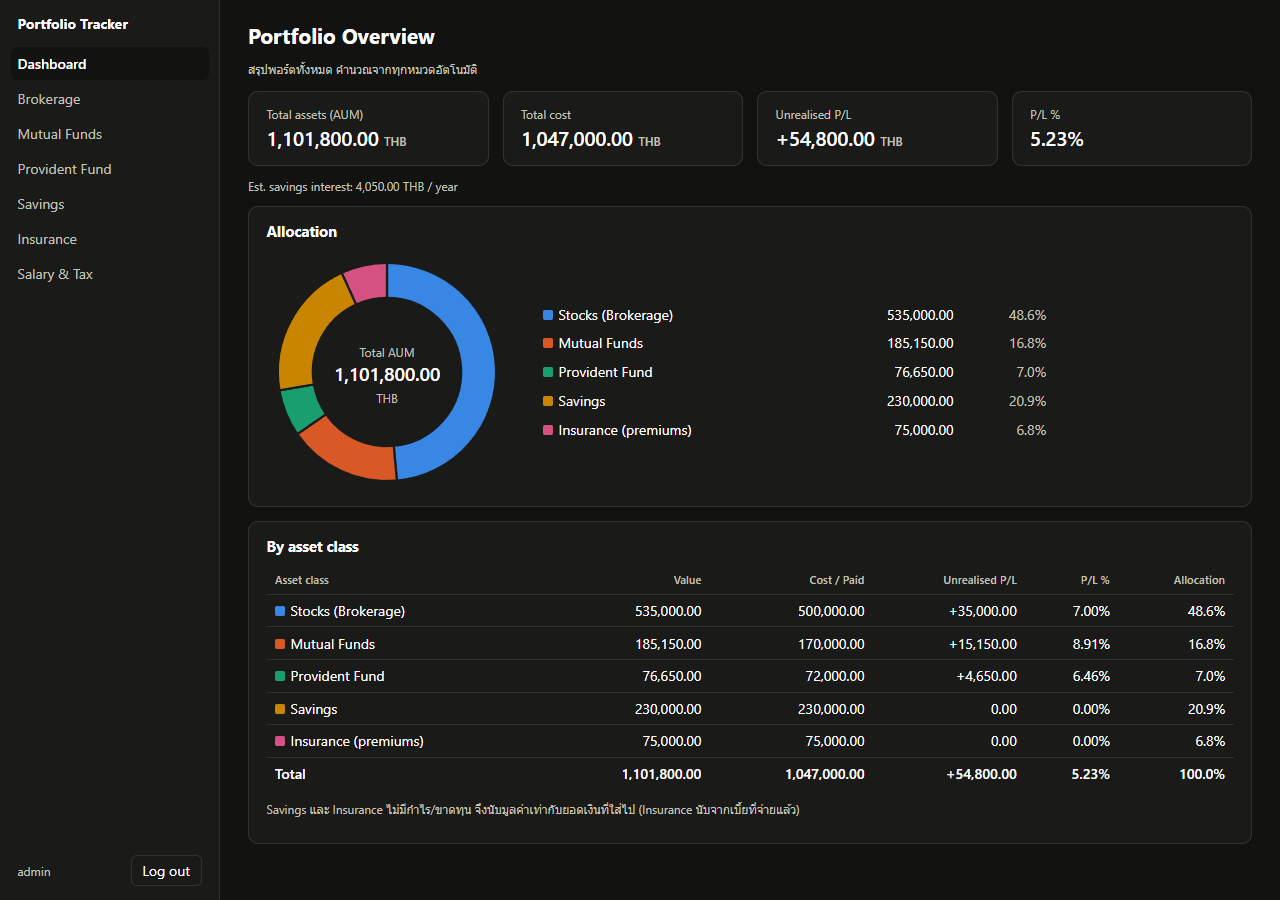
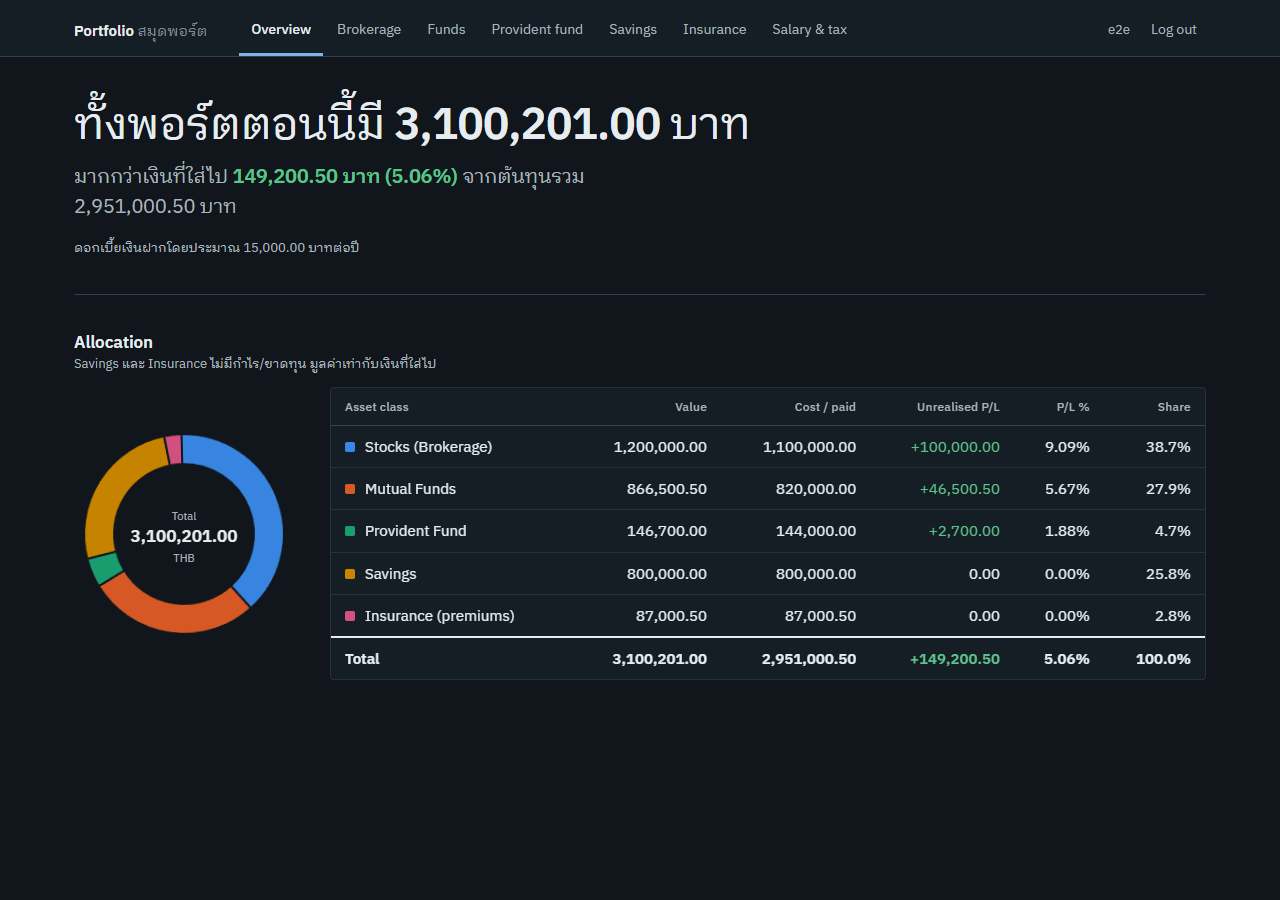
docs: drop the doc 01 review checklist, refresh screenshots from made-up data
docs/01 loses its "Review checklist / Open questions" section and the
line pointing to it. Its app shell and dashboard sections described the
old sidebar and KPI cards and cited spreadsheet cell ranges; they now
describe the top menu, the hero sentence and the allocation donut, and
cite the API fields instead. Leftover v_* view mentions are gone.

docs/images is regenerated from the e2e seed by a Playwright spec that
only runs with UPDATE_SCREENSHOTS=1 (make docs-screenshots), so the
screenshots match the current UI and never show real data.

docs/04: the Set-Cookie message in the session diagram broke mermaid,
which reads ; as the end of a statement. It is now quoted with the
semicolons written as #59;, and renders as
"Set-Cookie pt_session=token; HttpOnly; SameSite=Strict; [Secure]".

diff --git a/e2e/tests/docs-screenshots.spec.ts b/e2e/tests/docs-screenshots.spec.ts
@@ -1,0 +1,33 @@
+import { test } from '@playwright/test'
+import { fileURLToPath } from 'node:url'
+import { expected, resetDB, signIn } from '../fixtures'
+
+// Regenerates docs/images from the made-up e2e seed, so screenshots never show
+// real data. Runs only with UPDATE_SCREENSHOTS=1 (make docs-screenshots).
+test.skip(!process.env.UPDATE_SCREENSHOTS, 'set UPDATE_SCREENSHOTS=1 to refresh docs/images')
+
+const image = (name: string) => fileURLToPath(new URL(`../../docs/images/${name}`, import.meta.url))
+const shots: Record<'light' | 'dark', [string, string][]> = {
+  light: [['/', 'dashboard-light.png'], ['/brokerage', 'brokerage-light.png'], ['/insurance', 'insurance-light.png']],
+  dark: [['/', 'dashboard-dark.png']],
+}
+
+test.beforeAll(resetDB)
+
+for (const scheme of ['light', 'dark'] as const) {
+  test(`docs screenshots (${scheme})`, async ({ browser, baseURL }) => {
+    const context = await browser.newContext({ viewport: { width: 1280, height: 900 }, colorScheme: scheme })
+    const page = await context.newPage()
+    if (scheme === 'dark') {
+      await page.goto('/login')
+      await page.screenshot({ path: image('login-dark.png') })
+    }
+    await signIn(context, baseURL!, expected.users.ready.username)
+    for (const [path, file] of shots[scheme]) {
+      await page.goto(path)
+      await page.waitForLoadState('networkidle')
+      await page.screenshot({ path: image(file) })
+    }
+    await context.close()
+  })
+}

diff --git a/docs/01-design-pages.md b/docs/01-design-pages.md
@@ -33,23 +33,17 @@ flowchart LR
 ## App shell
 
 ```
-┌────────────────┬──────────────────────────────────────────────┐
-│ Portfolio      │  <Page title>                                │
-│ Tracker        │  hint text                                   │
-│                │ ┌──────────────────────────────────────────┐ │
-│ ▸ Dashboard    │ │ Card                              [+Add] │ │
-│   Brokerage    │ │ table ...                                │ │
-│   Mutual Funds │ └──────────────────────────────────────────┘ │
-│   Provident    │                                              │
-│   Savings      │                                              │
-│   Insurance    │                                              │
-│   Salary & Tax │                                              │
-│                │                                              │
-│ admin [Logout] │                                              │
-└────────────────┴──────────────────────────────────────────────┘
-  มือถือ (< 760px): sidebar กลายเป็นแถบเมนูแนวนอนด้านบน
+┌──────────────────────────────────────────────────────────────────────────┐
+│ Portfolio สมุดพอร์ต  Overview  Brokerage  Funds  Provident fund  …   e2e  Log out │
+├──────────────────────────────────────────────────────────────────────────┤
+│  <Page title>                                                            │
+│  ┌ Card ─────────────────────────────────────────────────── [+ Add] ┐    │
+│  │ table …                                                          │    │
+│  └──────────────────────────────────────────────────────────────────┘    │
+└──────────────────────────────────────────────────────────────────────────┘
 ```
 
+- เมนูอยู่ด้านบน (`Layout.tsx`) หน้าที่เปิดอยู่มี `aria-current="page"`
 - Light/Dark ตาม OS (`prefers-color-scheme`) และ override ได้ด้วย `<html data-theme="dark|light">`
 - ตัวเลขชิดขวา และใช้ `tabular-nums` ทุกตาราง
 
@@ -82,12 +76,14 @@ flowchart LR
 
 ![dashboard dark](images/dashboard-dark.png)
 
-| ส่วน | ที่มา (เทียบสูตรใน Excel) |
+| ส่วน | ที่มา |
 |---|---|
-| KPI: AUM / Total cost / Unrealised P/L / P/L % | `Dashboard!B5:E5` |
-| Est. savings interest | `SUM(balance × rate)` ⇒ `Dashboard!B6` |
-| Allocation bar | `Dashboard!G9:G13` แสดงเป็น stacked bar 100% แบบแท่งเดียว hover แล้วเห็นรายละเอียด |
-| ตาราง By asset class | `Dashboard!B8:G15` |
+| ประโยคบนสุด: มูลค่ารวม, มากกว่า/น้อยกว่าเงินที่ใส่ไปเท่าไร (%), ต้นทุนรวม | `total` จาก `GET /api/dashboard` |
+| ดอกเบี้ยเงินฝากโดยประมาณต่อปี | `estSavingsInterestPerYear` = Σ balance × rate |
+| Donut + ตาราง Allocation | `classes` (มูลค่า, ต้นทุน, P/L, P/L %, สัดส่วน) หมวดที่มูลค่าเป็น 0 ไม่แสดงใน donut แต่ยังอยู่ในตาราง hover แถวแล้ว donut เน้นหมวดนั้น |
+| พอร์ตว่าง | แสดงข้อความแนะนำให้เริ่มจาก Brokerage หรือ Savings |
+
+ภาพทั้งหมดในหน้านี้สร้างจากข้อมูลสมมติ (`make docs-screenshots`)
 
 แต่ละ asset class มีสีประจำตัวคงที่ (Stocks=น้ำเงิน, Funds=ส้ม, PVD=เขียวน้ำทะเล, Savings=เหลือง, Insurance=ชมพู)
 สีไม่เปลี่ยนตามลำดับหรือการกรอง ข้อมูลเดียวกันมีในตารางด้วย จึงไม่ต้องดูจากสีอย่างเดียว
@@ -96,7 +92,7 @@ flowchart LR
 
 ![brokerage](images/brokerage-light.png)
 
-- Card บน = **Brokers** แก้ได้เฉพาะ Name / Current Value / Note ส่วน Deposits, Withdrawals, Net Capital, P/L และ P/L % มาจาก view `v_brokers`
+- Card บน = **Brokers** แก้ได้เฉพาะ Name / Current Value / Note ส่วน Deposits, Withdrawals, Net Capital, P/L และ P/L % คำนวณจากรายการด้านล่าง
 - Card ล่าง = **Deposit / Withdraw log** เลือก Broker จาก dropdown และ Type ได้แค่ deposit/withdraw (เท่ากับ data validation ใน Excel)
 - เพิ่มหรือลบ log แล้ว card บนจะ refresh เอง
 
@@ -112,7 +108,7 @@ flowchart LR
 └────────────────────────────────────────────────────────────────┘
 ```
 
-- คอลัมน์ `auto` = คำนวณจาก view แก้ไม่ได้
+- คอลัมน์ `auto` = ค่าที่ API คำนวณให้ แก้ไม่ได้
 - Savings: กรอก Interest Rate เป็น % (2.5) แต่เก็บใน DB เป็น basis points (250)
 
 ## 8. Insurance
@@ -135,12 +131,3 @@ Salary & Tax                                   Year [2026]
 ```
 
 - ใน Excel ชีตนี้ผูกกับปี 2026 ใน app เปลี่ยนเป็นตัวเลือกปี (`?year=`) จึงใช้ได้ทุกปี
-- คอลัมน์ Salary Inc. / Inc. % / "if not prorated" ใน Excel ยังไม่ได้ย้ายมา ดู Open questions
-
-## Review checklist / Open questions
-
-- [ ] **Salary Inc. %, "if not prorated"**: ต้องการคำนวณใน view หรือแสดงเป็นรายงานแยก?
-- [ ] **Tax estimate**: ใช้ข้อมูลเงินเดือนและรายการลดหย่อนที่มีอยู่แล้ว คำนวณภาษีทั้งปีตามขั้นบันได และเทียบกับภาษีที่ถูกหัก ณ ที่จ่าย?
-- [ ] **ประวัติมูลค่า (snapshots)**: เก็บ AUM รายเดือนเพื่อทำกราฟ trend? (ร่างตารางไว้ใน 02-db-er.md)
-- [ ] **Import จาก Excel**: ทำ CLI สำหรับ import `Portfolio-Tracker.xlsx` ครั้งเดียว?
-- [ ] **Fund units/NAV**: ตอนนี้กรอก market value เอง อนาคตจะเก็บจำนวน units × NAV แล้วดึง NAV อัตโนมัติไหม?

diff --git a/README.md b/README.md
@@ -270,6 +270,7 @@ make deploy-down                                            # stop (ข้อม
 | `make sqlc` / `sqlc-check` | generate Go จาก `queries/*.sql` ด้วย sqlc (ผ่าน Docker) / เช็คว่าไฟล์ที่ commit ตรงกับที่ generate ใหม่ |
 | `make test` / `lint` | Go tests / sqlc-check + go vet + gofmt + tsc |
 | `make e2e` | รัน Playwright ทุก spec ใน `e2e/tests` บน stack แยก (web :8100, DB ในหน่วยความจำ) ด้วยข้อมูลสมมติ แล้วปิด stack ให้ (Windows ใช้ Edge ที่ติดตั้งอยู่) |
+| `make docs-screenshots` | สร้างภาพใน `docs/images` ใหม่จากข้อมูลสมมติ (ไม่มีข้อมูลจริงในภาพ) |
 | `make e2e-ui` / `e2e-down` | เปิด Playwright UI mode ไว้ดูทีละ step / ปิด stack |
 | `make vulncheck` | `govulncheck` (Go + stdlib) และ `npm audit` |
 | `make check` | lint + test + vulncheck (เหมือน CI) |
@@ -346,7 +347,7 @@ docs/                    design docs
 
 | | |
 |---|---|
-| [01 · Design pages](docs/01-design-pages.md) | sitemap, wireframes, screenshots, review checklist |
+| [01 · Design pages](docs/01-design-pages.md) | sitemap, wireframes, screenshots |
 | [02 · Database ER](docs/02-db-er.md) | ER diagram, conventions, Excel → table mapping |
 | [03 · User journey](docs/03-user-journey.md) | first login, monthly update, session expiry |
 | [04 · System design](docs/04-system-design.md) | architecture, auth flow, API, security, deployment, roadmap |

diff --git a/docs/03-user-journey.md b/docs/03-user-journey.md
@@ -27,7 +27,7 @@ journey
       สิ้นปี → ดู Salary & Tax + ลดหย่อน: 3: Owner
 ```
 
-คะแนน 1–5 = ความลื่นไหลที่คาดไว้ ส่วนที่ได้ 2 คือการกรอกข้อมูลย้อนหลัง ซึ่งเป็นเหตุผลที่ควรมีตัว import จาก Excel (ดู Open questions ใน 01)
+คะแนน 1–5 = ความลื่นไหลที่คาดไว้ ส่วนที่ได้ 2 คือการกรอกข้อมูลย้อนหลัง ซึ่งแก้ด้วยการ import จาก Excel (`make seed-sql` / `make db-seed`)
 
 ## Flow 1 — First login (seeded admin/admin)
 

diff --git a/docs/04-system-design.md b/docs/04-system-design.md
@@ -83,7 +83,7 @@ sequenceDiagram
     S->>S: bcrypt.Compare (dummy hash ถ้าไม่พบ user → timing เท่ากัน)
     S->>S: token = 32 random bytes (base64url)
     S->>D: INSERT sessions(token_hash = sha256(token), expires_at)
-    F-->>B: Set-Cookie pt_session=token; HttpOnly; SameSite=Strict; [Secure]
+    F-->>B: "Set-Cookie pt_session=token#59; HttpOnly#59; SameSite=Strict#59; [Secure]"
     Note over B,F: request ต่อไป
     B->>F: GET /api/funds (cookie)
     F->>S: Require(): hash cookie → lookup session ที่ยังไม่หมดอายุ
